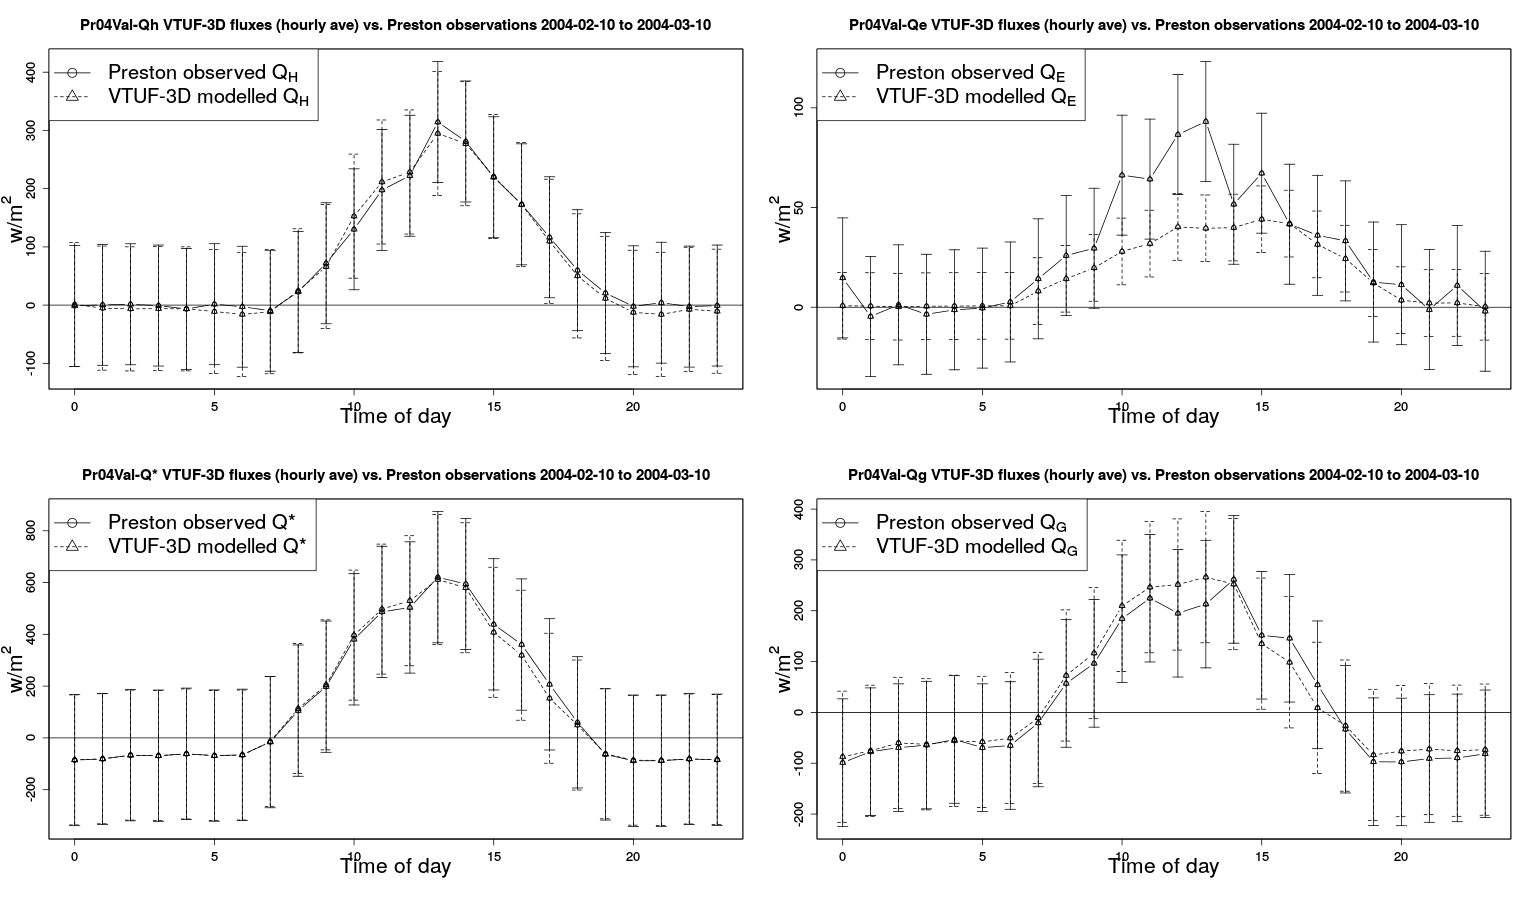
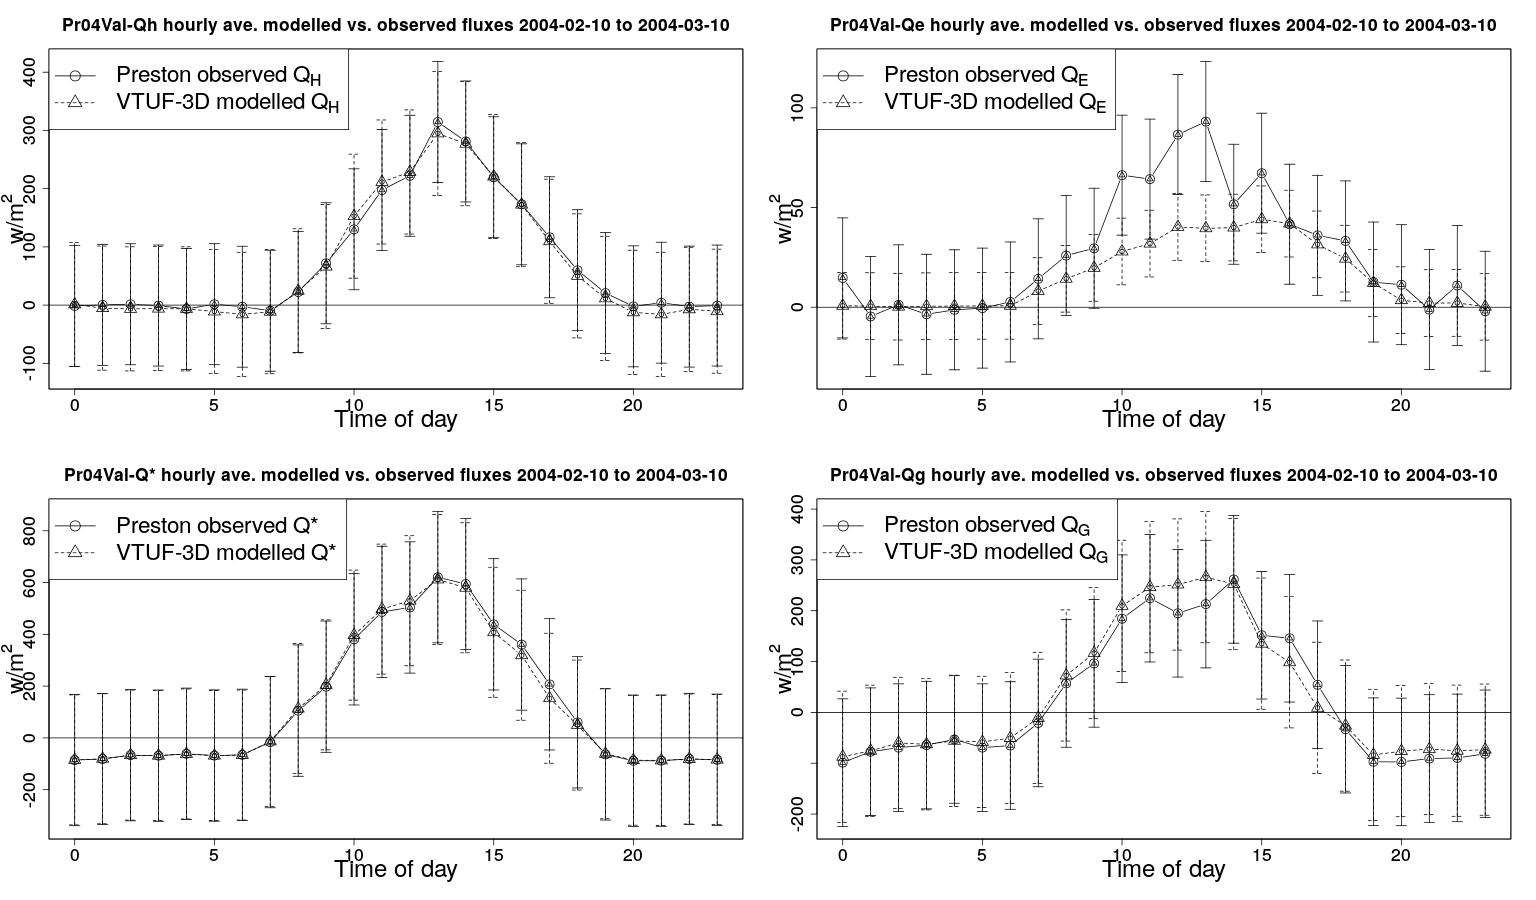
Fix font sizes in figures

diff --git a/VTUF-3DDesign.tex b/VTUF-3DDesign.tex
@@ -695,7 +695,7 @@ Figure \ref{fig:Preston30Day4} presents the mean diurnal pattern for each compon
 
 \begin{figure}[!htbp] 
 \includegraphics[trim = 0mm 0mm 0mm 0mm, clip, scale=0.30]{images/Pr04Val-EnergyBalanceOverallAve4Plots_.png}
-\caption{(TODO MAKE FONTS BIGGER) Pr04Val run 30 day hourly average VTUF-3D flux comparisons to Preston flux observations for the period 10 February-10 March 2004, with error bars at standard deviations. \label{fig:Preston30Day4} }     
+\caption{Pr04Val run 30 day hourly average VTUF-3D flux comparisons to Preston flux observations for the period 10 February-10 March 2004, with error bars at standard deviations. \label{fig:Preston30Day4} }     
 \end{figure}
 
 
@@ -709,7 +709,7 @@ In terms of absolute values, in 30 day monthly hourly averages, peaking daily va
 
 \begin{figure}[!htbp]
 \includegraphics[trim = 0mm 0mm 0mm 0mm, clip, scale=0.30]{images/Pr04Val-ErrorPlots.png}
-\caption{(TODO MAKE FONTS BIGGER) Pr04Val scenario modelled vs. observations for $Q_{H}$, $Q_{E}$, $Q^{*}$, and $Q_{G}$ fluxes for the period 10 February-10 March 2004. \label{fig:Preston6error}}   
+\caption{Pr04Val scenario modelled vs. observations for $Q_{H}$, $Q_{E}$, $Q^{*}$, and $Q_{G}$ fluxes for the period 10 February-10 March 2004. \label{fig:Preston6error}}   
 \end{figure}
 
 %Individual fluxes ($Q^{*}$, $Q_{H}$, $Q_{G}$, and $Q_{E}$) were aggregated into hourly averages over the 30 days and compared to the observations (Figure \ref{fig:Preston30Day4}). VTUF-3D is able to reproduce the important dynamics of this area, driven by the fluxes. In the observations, the $Q_{H}$ and $Q_{G}$ fluxes dominate the urban area, with modest amounts of $Q_{E}$ fluxes, peaking under 100W m$^{-2}$ during the daytime and falling to roughly zero at night-time. 
@@ -761,7 +761,7 @@ Figure \ref{fig:Prestonnoveg30day} presents a 30 day hourly average of both the 
 
 \begin{figure}[!htbp]
 \includegraphics[trim = 0mm 0mm 0mm 0mm, clip, scale=0.30]{images/Pr04NoVeg-ErrorPlots.png}
-\caption{(TODO REPLACE THIS WITH THE CORRECT FIGURE) Pr04NoVeg scenario modelled vs. observations for $Q_{H}$, $Q_{E}$, $Q^{*}$, and $Q_{G}$ fluxes for the period 10 February-10 March 2004. \label{fig:Prestonnovegerror}}    
+\caption{Pr04NoVeg scenario modelled vs. observations for $Q_{H}$, $Q_{E}$, $Q^{*}$, and $Q_{G}$ fluxes for the period 10 February-10 March 2004. \label{fig:Prestonnovegerror}}    
 \end{figure}
 
 
